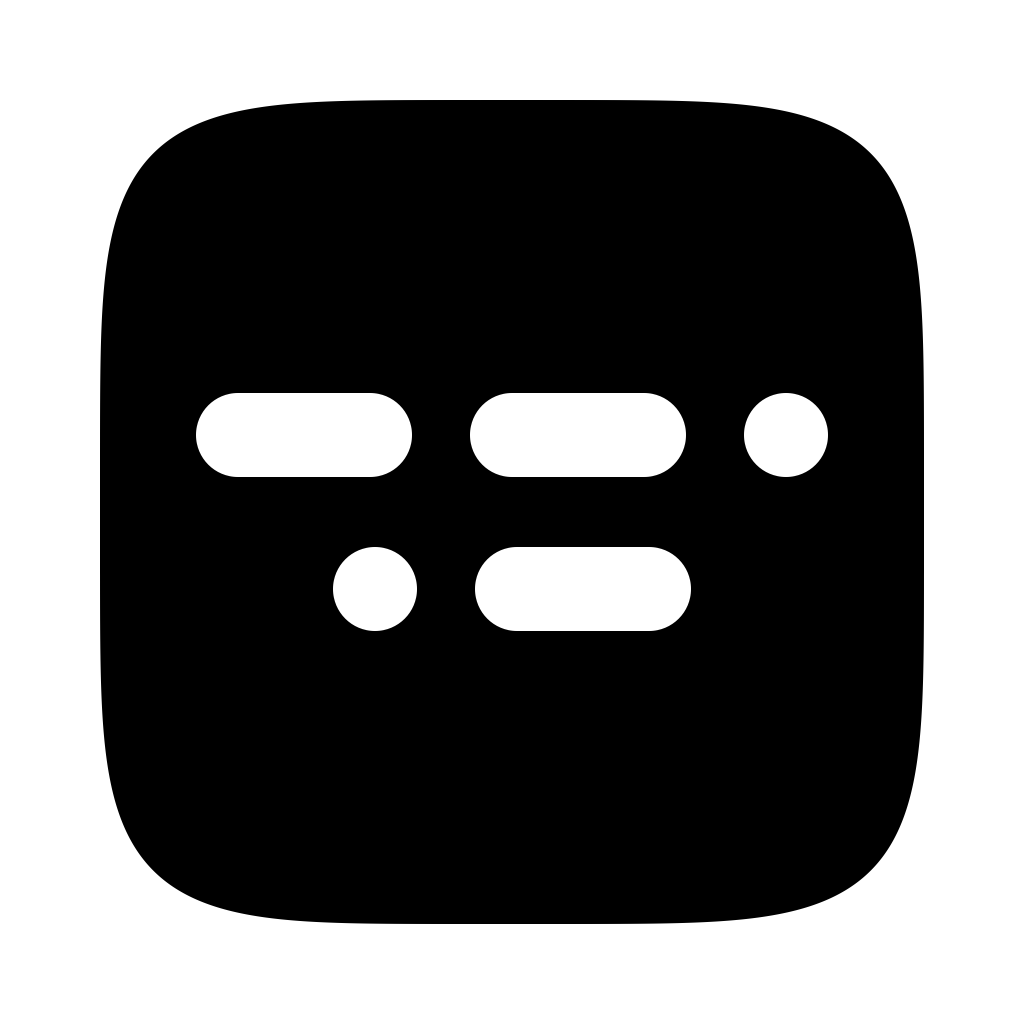
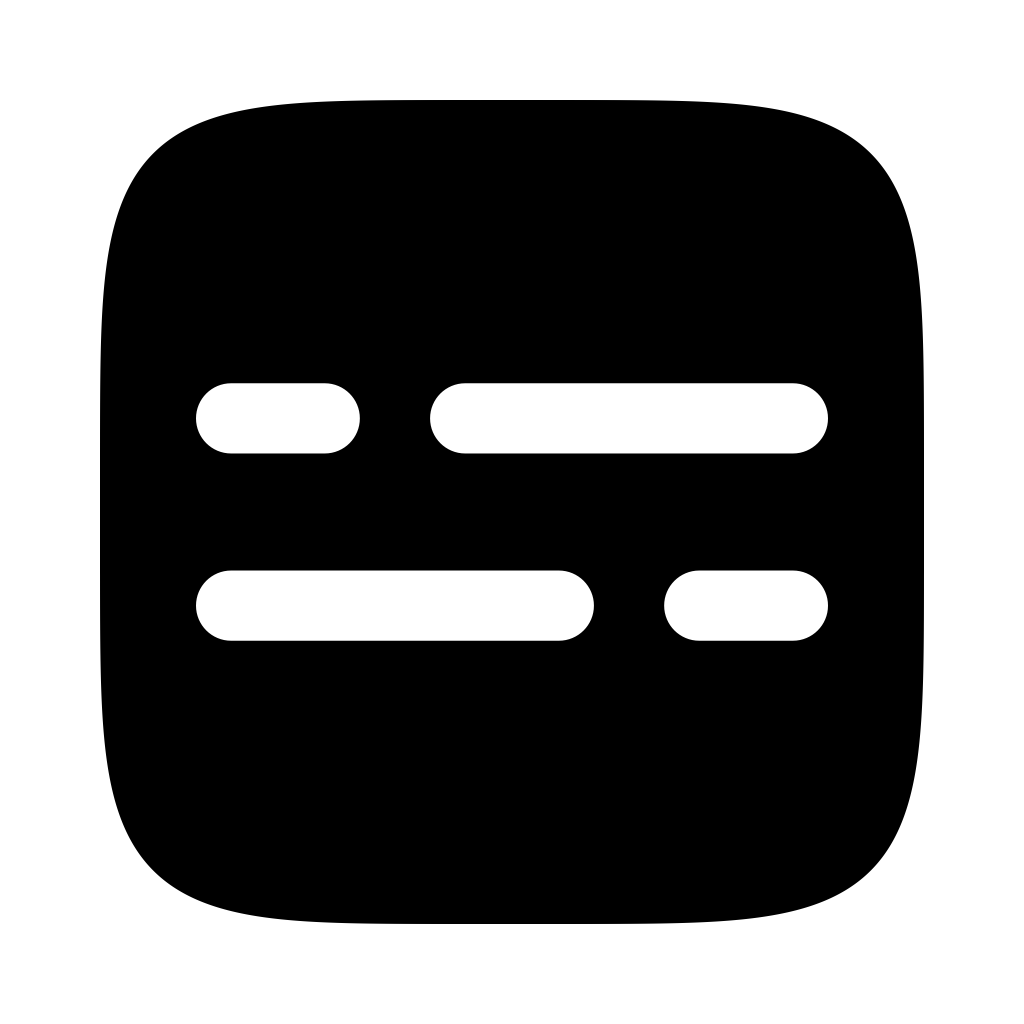
Subline 2.2.2: новая иконка, две строки капсул как значок субтитров
Иконка срисована с образца, классического значка субтитров: на чёрной
плитке две строки белых капсул, сверху короткая и длинная, снизу
длинная и короткая. Пропорции сняты с образца: концы капсул круглые,
короткая капсула 7/3 толщины, длинная 17/3, зазор в одну толщину,
строки на 5/3 толщины друг от друга. Строки шириной 632 из 1024, как
прежний знак и знак Slovo, поэтому капсулы толщиной около 70 px. На
32 px строки ложатся почти на целые пиксели, разрывы между капсулами
видны и на 16 px.

Значок в строке меню повторяет образец целиком: плашка 14 × 10 pt,
в которой прорезаны те же капсулы толщиной 1 pt. Прорези стоят на
целых пикселях и в 1x, и в 2x. Набор при распознавании идёт по четырём
капсулам. Заполнение при экспорте, галочка и восклицательный знак
остались, теперь они тоже вырезаны в плашке.

В README и в комментарии о цвете бренда (Style.swift) штрихи и точки
заменены капсулами.

Changed region(s): [[0.1875, 0.5312, 0.8125, 0.625], [0.1875, 0.375, 0.8125, 0.4688]]

diff --git a/Sources/Subline/MenuBarIcon.swift b/Sources/Subline/MenuBarIcon.swift
@@ -73,9 +73,10 @@ final class MenuBarIcon: NSObject {
 
     // MARK: - Drawing
 
-    /// Recognition types the marks in one after another: the two dashes of the top line grow, two dots appear, the last
-    /// dash grows, a pause with the full lines, a short blank. 20 frames of 0.1 s.
-    private static let typing: [Double] = [0.34, 0.67, 1, 1.34, 1.67, 2, 3, 3, 4, 4, 4.34, 4.67, 5, 5, 5, 5, 5, 5, 0, 0]
+    /// Recognition types the capsules in one after another, each growing from its left end at one pace: the short and
+    /// the long one of the top line, a beat at the line break, the long and the short one of the bottom line, a pause
+    /// with the full lines, a short blank. 20 frames of 0.1 s.
+    private static let typing: [Double] = [0.5, 1, 1.25, 1.5, 1.75, 2, 2, 2.25, 2.5, 2.75, 3, 3.5, 4, 4, 4, 4, 4, 4, 0, 0]
 
     private var animates: Bool {
         work == .recognition && outcome == nil && !displayAsleep && !NSWorkspace.shared.accessibilityDisplayShouldReduceMotion
@@ -178,15 +179,15 @@ final class MenuBarIcon: NSObject {
     }
 }
 
-/// The glyph, drawn in code as a template image: the outline of the app icon's squircle with the sign inside, "— — •"
-/// over "• —", in lines. The glyph is 14 × 14 pt, drawn on a 16 pt square; the image is 16 pt high and 15 pt wide, as in
-/// every app of the family, with the glyph in the middle. Lines of 1.5 pt (3 px on Retina, the rows and the outline on
-/// whole pixels) with round ends and joins, only the dots filled.
+/// The glyph, drawn in code as a template image: the subtitles badge the app icon is drawn from, as it is, a filled plate
+/// with two caption lines of capsules cut out of it, a short and a long one over a long and a short one. The image is
+/// 16 pt high and 15 pt wide, as in every app of the family, with the 14 × 10 pt plate in the middle. The capsules are
+/// 1 pt thick and sit on whole pixels at 1x and at 2x, so they stay crisp on any screen.
 enum WorkGlyph {
     enum Face: Hashable {
-        /// So many marks typed; a fraction grows the next dash.
+        /// So many capsules typed; a fraction grows the next one.
         case typing(Double)
-        /// The marks faint, filled from the left in reading order.
+        /// The capsules cut out faintly, then through, from the left in reading order.
         case filling(Double)
         case success
         case failure
@@ -194,28 +195,22 @@ enum WorkGlyph {
 
     static var markCount: Int { marks.count }
 
+    /// The check mark and the exclamation mark.
     private static let line: CGFloat = 1.5
+    /// The dot of the exclamation mark.
     private static let dot: CGFloat = 2.1
+    private static let thickness: CGFloat = 1
 
-    /// The marks in reading order, a dot has the same start and end; coordinates from the top left. The proportions
-    /// are the icon's: a dash 216 and a gap 58 of the 632 units of the sign, and inside the outline the sign is as wide
-    /// as in the icon (632 of the 824 units of the body). The rows sit on whole pixels.
+    /// The capsules in reading order, the centres of their round ends from the top left of the 16 pt square, so that a
+    /// capsule is a line from x0 to x1 with round caps. The icon's proportions (both lines 9 thicknesses wide, a short
+    /// capsule 7/3 of one, the gap one) rounded to whole pixels at 1x: lines 9 pt wide, a capsule 2 pt long, a gap of
+    /// 1 pt, a long capsule up to the end, under it the same turned round, the lines 2 pt apart.
     private static let marks: [(x0: CGFloat, x1: CGFloat, y: CGFloat)] = {
-        let width: CGFloat = 9.6, gap: CGFloat = 0.9
-        let dash = (width - dot - 2 * gap) / 2
-        let top: CGFloat = 6.25, bottom: CGFloat = 9.75
-        var x = 8 - width / 2
-        var marks: [(x0: CGFloat, x1: CGFloat, y: CGFloat)] = []
-        for _ in 0..<2 {
-            marks.append((x + line / 2, x + dash - line / 2, top))
-            x += dash + gap
-        }
-        marks.append((x + dot / 2, x + dot / 2, top))
-        x = 8 - (dot + gap + dash) / 2
-        marks.append((x + dot / 2, x + dot / 2, bottom))
-        x += dot + gap
-        marks.append((x + line / 2, x + dash - line / 2, bottom))
-        return marks
+        let left: CGFloat = 3.5, width: CGFloat = 9, short: CGFloat = 2, gap: CGFloat = 1
+        let top: CGFloat = 6.5, bottom: CGFloat = 9.5
+        let end = thickness / 2, long = width - short - gap
+        return [(left + end, left + short - end, top), (left + short + gap + end, left + width - end, top),
+                (left + end, left + long - end, bottom), (left + long + gap + end, left + width - end, bottom)]
     }()
 
     /// One image per face: the menu bar keeps a drawn image, so a face that comes back costs nothing.
@@ -238,9 +233,10 @@ enum WorkGlyph {
 
     private static func draw(_ face: Face) {
         NSColor.black.set()
-        let outline = squircle(NSRect(x: 1.75, y: 1.75, width: 12.5, height: 12.5))
-        outline.lineWidth = line
-        outline.stroke()
+        // The plate, as wide against its height as the badge and as round in the corners; everything drawn after it is
+        // cut out of it.
+        NSBezierPath(roundedRect: NSRect(x: 1, y: 3, width: 14, height: 10), xRadius: 1.5, yRadius: 1.5).fill()
+        NSGraphicsContext.current?.compositingOperation = .destinationOut
         switch face {
         case .typing(let typed):
             for (index, mark) in marks.enumerated() {
@@ -248,7 +244,7 @@ enum WorkGlyph {
                 if amount > 0 { drawMark(mark, length: amount) }
             }
         case .filling(let progress):
-            let lengths = marks.map { $0.x0 == $0.x1 ? dot : $0.x1 - $0.x0 + line }
+            let lengths = marks.map { $0.x1 - $0.x0 + thickness }
             let total = lengths.reduce(0, +)
             var before: CGFloat = 0
             for (index, mark) in marks.enumerated() {
@@ -257,8 +253,7 @@ enum WorkGlyph {
                 let filled = min(1, max(0, (CGFloat(progress) * total - before) / lengths[index]))
                 if filled > 0 {
                     NSGraphicsContext.saveGraphicsState()
-                    let left = mark.x0 == mark.x1 ? mark.x0 - dot / 2 : mark.x0 - line / 2
-                    NSRect(x: left, y: 0, width: lengths[index] * filled, height: 16).clip()
+                    NSRect(x: mark.x0 - thickness / 2, y: 0, width: lengths[index] * filled, height: 16).clip()
                     NSColor.black.set()
                     drawMark(mark, length: 1)
                     NSGraphicsContext.restoreGraphicsState()
@@ -266,43 +261,25 @@ enum WorkGlyph {
                 before += lengths[index]
             }
         case .success:
-            stroke([NSPoint(x: 5, y: 8.25), NSPoint(x: 7.25, y: 10.5), NSPoint(x: 11, y: 5.75)])
+            stroke([NSPoint(x: 5, y: 8.25), NSPoint(x: 7.25, y: 10.5), NSPoint(x: 11, y: 5.75)], width: line)
         case .failure:
-            stroke([NSPoint(x: 8, y: 4.75), NSPoint(x: 8, y: 8.75)])
-            NSBezierPath(ovalIn: NSRect(x: 8 - dot / 2, y: 11 - dot / 2, width: dot, height: dot)).fill()
+            stroke([NSPoint(x: 8, y: 5.25), NSPoint(x: 8, y: 8)], width: line)
+            NSBezierPath(ovalIn: NSRect(x: 8 - dot / 2, y: 10.5 - dot / 2, width: dot, height: dot)).fill()
         }
     }
 
     private static func drawMark(_ mark: (x0: CGFloat, x1: CGFloat, y: CGFloat), length: Double) {
-        if mark.x0 == mark.x1 {
-            NSBezierPath(ovalIn: NSRect(x: mark.x0 - dot / 2, y: mark.y - dot / 2, width: dot, height: dot)).fill()
-        } else {
-            stroke([NSPoint(x: mark.x0, y: mark.y), NSPoint(x: mark.x0 + (mark.x1 - mark.x0) * CGFloat(length), y: mark.y)])
-        }
+        stroke([NSPoint(x: mark.x0, y: mark.y), NSPoint(x: mark.x0 + (mark.x1 - mark.x0) * CGFloat(length), y: mark.y)],
+               width: thickness)
     }
 
-    private static func stroke(_ points: [NSPoint]) {
+    private static func stroke(_ points: [NSPoint], width: CGFloat) {
         let path = NSBezierPath()
         path.move(to: points[0])
         points.dropFirst().forEach { path.line(to: $0) }
-        path.lineWidth = line
+        path.lineWidth = width
         path.lineCapStyle = .round
         path.lineJoinStyle = .round
         path.stroke()
-    }
-
-    /// The body of the app icon (scripts/make_icon.swift): a superellipse with exponent 5.
-    private static func squircle(_ rect: NSRect, exponent: CGFloat = 5) -> NSBezierPath {
-        let path = NSBezierPath()
-        let a = rect.width / 2, b = rect.height / 2
-        for step in 0...360 {
-            let t = CGFloat(step) / 360 * 2 * .pi
-            let c = cos(t), s = sin(t)
-            let point = NSPoint(x: rect.midX + a * (c < 0 ? -1 : 1) * pow(abs(c), 2 / exponent),
-                                y: rect.midY + b * (s < 0 ? -1 : 1) * pow(abs(s), 2 / exponent))
-            if step == 0 { path.move(to: point) } else { path.line(to: point) }
-        }
-        path.close()
-        return path
     }
 }

diff --git a/scripts/make_icon.swift b/scripts/make_icon.swift
@@ -2,33 +2,29 @@
 // with actool) and Resources/AppIcon-1024.png (a preview of the whole icon for the README).
 // Usage: swift scripts/make_icon.swift
 //
-// Flat, black and white: a pure black body and two subtitle lines drawn as white dashes and dots, "— — •" over "• —",
-// centered like captions. No gradients, glass, highlights or shadows. The body (a squircle with exponent 5, 100 px from
-// the edges of 1024) and the weight of the marks are shared by the icons of all four apps of the family.
+// Flat, black and white: a pure black body with the classic subtitles badge drawn on it in white, two caption lines of
+// capsules, a short and a long one over a long and a short one. No gradients, glass, highlights or shadows. The body
+// (a squircle with exponent 5, 100 px from the edges of 1024) is shared by the icons of all four apps of the family.
 import AppKit
 
 let bodyColor: (red: CGFloat, green: CGFloat, blue: CGFloat) = (0, 0, 0)
 
-enum Mark { case dash, dot }
-
 /// The mark, drawn with the current (white) colours in the flat drawing's coordinates: a 1024 square whose body is the
-/// squircle at 100...924, y growing upwards. Pills 84 thick with fully round ends, dashes 216 long, 58 between the marks
-/// and 70 between the lines: the reference weight for the marks of all four icons.
+/// squircle at 100...924, y growing upwards. The proportions are those of the subtitles badge the user sent as the
+/// reference (142 × 100 px): capsules with fully round ends, 10 thick, 23⅓ and 56⅔ long, 10 apart, the lines 16⅔
+/// apart, so both lines are 90 wide. In thicknesses: 7/3 and 17/3 long, 1 apart, the lines 5/3 apart and 9 wide. The
+/// lines are 632 wide here (196...828, as wide as the earlier mark and as Slovo's), so the capsules are 70.2 thick, and
+/// the block sits in the middle of the body.
 func drawMark(_ ctx: CGContext) {
-    let thickness: CGFloat = 84
-    let dash: CGFloat = 216
-    let gap: CGFloat = 58
-    let lineGap: CGFloat = 70
-    let rows: [[Mark]] = [[.dash, .dash, .dot], [.dot, .dash]]
-    func width(_ row: [Mark]) -> CGFloat {
-        row.map { $0 == .dash ? dash : thickness }.reduce(0, +) + CGFloat(row.count - 1) * gap
-    }
-    let blockHeight = CGFloat(rows.count) * thickness + CGFloat(rows.count - 1) * lineGap
-    var top = 512 + blockHeight / 2
-    for row in rows {
-        var x = 512 - width(row) / 2
-        for mark in row {
-            let length = mark == .dash ? dash : thickness
+    let width: CGFloat = 632
+    let thickness = width / 9
+    let short = thickness * 7 / 3, gap = thickness, lineGap = thickness * 5 / 3
+    let long = width - short - gap
+    let lines: [[CGFloat]] = [[short, long], [long, short]]
+    var top = 512 + (CGFloat(lines.count) * thickness + CGFloat(lines.count - 1) * lineGap) / 2
+    for line in lines {
+        var x = 512 - width / 2
+        for length in line {
             let rect = CGRect(x: x, y: top - thickness, width: length, height: thickness)
             ctx.addPath(CGPath(roundedRect: rect, cornerWidth: thickness / 2, cornerHeight: thickness / 2, transform: nil))
             x += length + gap

diff --git a/Sources/Subline/Views/Style.swift b/Sources/Subline/Views/Style.swift
@@ -6,7 +6,7 @@ import SublineCore
 
 /// Subline's look comes from FaceID, an app by the same author: black blocks with round continuous corners, white
 /// text, controls drawn by the app rather than by macOS (so they look the same on every macOS version). The brand
-/// color is the white of the dashes and dots in the app icon; around the blocks is the graphite of the icon's body.
+/// color is the white of the capsules in the app icon; around the blocks is graphite.
 enum Brand {
     /// The marks of the icon: white with a cool tint. Main buttons, switches that are on.
     static let mark = Color(red: 0.96, green: 0.96, blue: 0.98)

diff --git a/README.md b/README.md
@@ -53,7 +53,7 @@ Subline делает субтитры к видео на macOS. Название
 - Окно тёмное, в нём три чёрных блока со скруглёнными углами на графитовом фоне: субтитры, видео и стиль. Текст белый,
   карточки и разделители полупрозрачные белые. Кнопки-капсулы, переключатели, сегменты, плитки в духе Пункта управления,
   поля чисел, ползунки и меню приложение рисует само, и на любой версии macOS они выглядят одинаково. Цвет бренда
-  белый, как штрихи и точки на иконке. Подписи умещаются в одну строку, а пояснения появляются в подсказке при наведении.
+  белый, как капсулы на иконке. Подписи умещаются в одну строку, а пояснения появляются в подсказке при наведении.
 - Кнопки при нажатии проседают и пружинят обратно, а новое содержимое проявляется из размытия. Переключатели и сегменты
   отзываются лёгким касанием трекпада. Субтитры на видео перетаскиваются 1:1, у краёв кадра упираются и прилипают
   к центру с тактильным откликом. Приложение учитывает настройку «Уменьшить движение».
@@ -62,8 +62,8 @@ Subline делает субтитры к видео на macOS. Название
   добавляете модель или шрифт и когда что-то удаляете. Файлы звуков приложение берёт из самой macOS, громкость у них та
   же, что у звуков предупреждений в Системных настройках, в разделе «Звук». Если там выключены звуковые эффекты
   интерфейса, звуков нет. В Subline их можно выключить отдельно переключателем «Звуковые эффекты» в настройках (⌘,).
-- Пока идёт распознавание или экспорт, в строке меню виден значок Subline, упрощённая иконка с двумя строками
-  субтитров из штрихов и точек. При распознавании штрихи набираются один за другим, а при экспорте строки заполняются
+- Пока идёт распознавание или экспорт, в строке меню виден значок Subline: плашка субтитров, в которой прорезаны две
+  строки капсул, как на иконке. При распознавании капсулы набираются одна за другой, а при экспорте строки заполняются
   по ходу работы. Проценты видны в подсказке. В конце значок полторы секунды показывает галочку или восклицательный
   знак и исчезает. Щелчок по нему выводит окно Subline вперёд. Анимация идёт не чаще 10 кадров в секунду, а когда
   дисплей спит или включено «Уменьшить движение», значок стоит на месте и меняется только с прогрессом. Значок
@@ -119,7 +119,7 @@ VERSION=2.0.0 ./scripts/make_dmg.sh
 |---|---|
 | `scripts/build_whisper.sh` | собирает whisper.cpp 1.9.4 (Metal + Accelerate) как universal static library в `Vendor/whisper` |
 | `scripts/fetch_ffmpeg.sh` | скачивает статический ffmpeg 9.0.2 (arm64 и x86_64, ffmpeg.martin-riedl.de), проверяет SHA-256 и склеивает universal-бинарник в `Vendor/ffmpeg` |
-| `swift scripts/make_icon.swift` | рисует иконку и сохраняет её как пакет Icon Composer `Resources/AppIcon.icon` (белый знак на прозрачном слое и чёрная заливка в `icon.json`) и как превью `Resources/AppIcon-1024.png`. Иконка плоская и чёрно-белая, на чёрном сквиркле белые штрихи и точки двух строк субтитров |
+| `swift scripts/make_icon.swift` | рисует иконку и сохраняет её как пакет Icon Composer `Resources/AppIcon.icon` (белый знак на прозрачном слое и чёрная заливка в `icon.json`) и как превью `Resources/AppIcon-1024.png`. Иконка плоская и чёрно-белая, на чёрном сквиркле две строки белых капсул, как на значке субтитров: сверху короткая и длинная, снизу длинная и короткая |
 | `scripts/build_app.sh` | собирает universal-приложение в `build/Subline.app` (ffmpeg в `Contents/Helpers`, шрифты из `Fonts/`, иконка через `actool`), записывает версию SDK в бинарник и подписывает приложение подписью из `SIGN_IDENTITY` или, если она не задана, сертификатом «tihomirov-nick» из Связки ключей, а без него ad-hoc |
 | `scripts/make_dmg.sh` | запускает `build_app.sh` с сертификатом «tihomirov-nick» и собирает DMG с ярлыком Applications и инструкциями на русском и английском. Без сертификата подписывает ad-hoc и громко предупреждает, что такая копия не сможет обновляться |
 | `scripts/verify_dmg.sh` | проверяет, что `Subline.app` в DMG подписан сертификатом «tihomirov-nick» (`./scripts/verify_dmg.sh dist/Subline-2.1.0.dmg`) |
